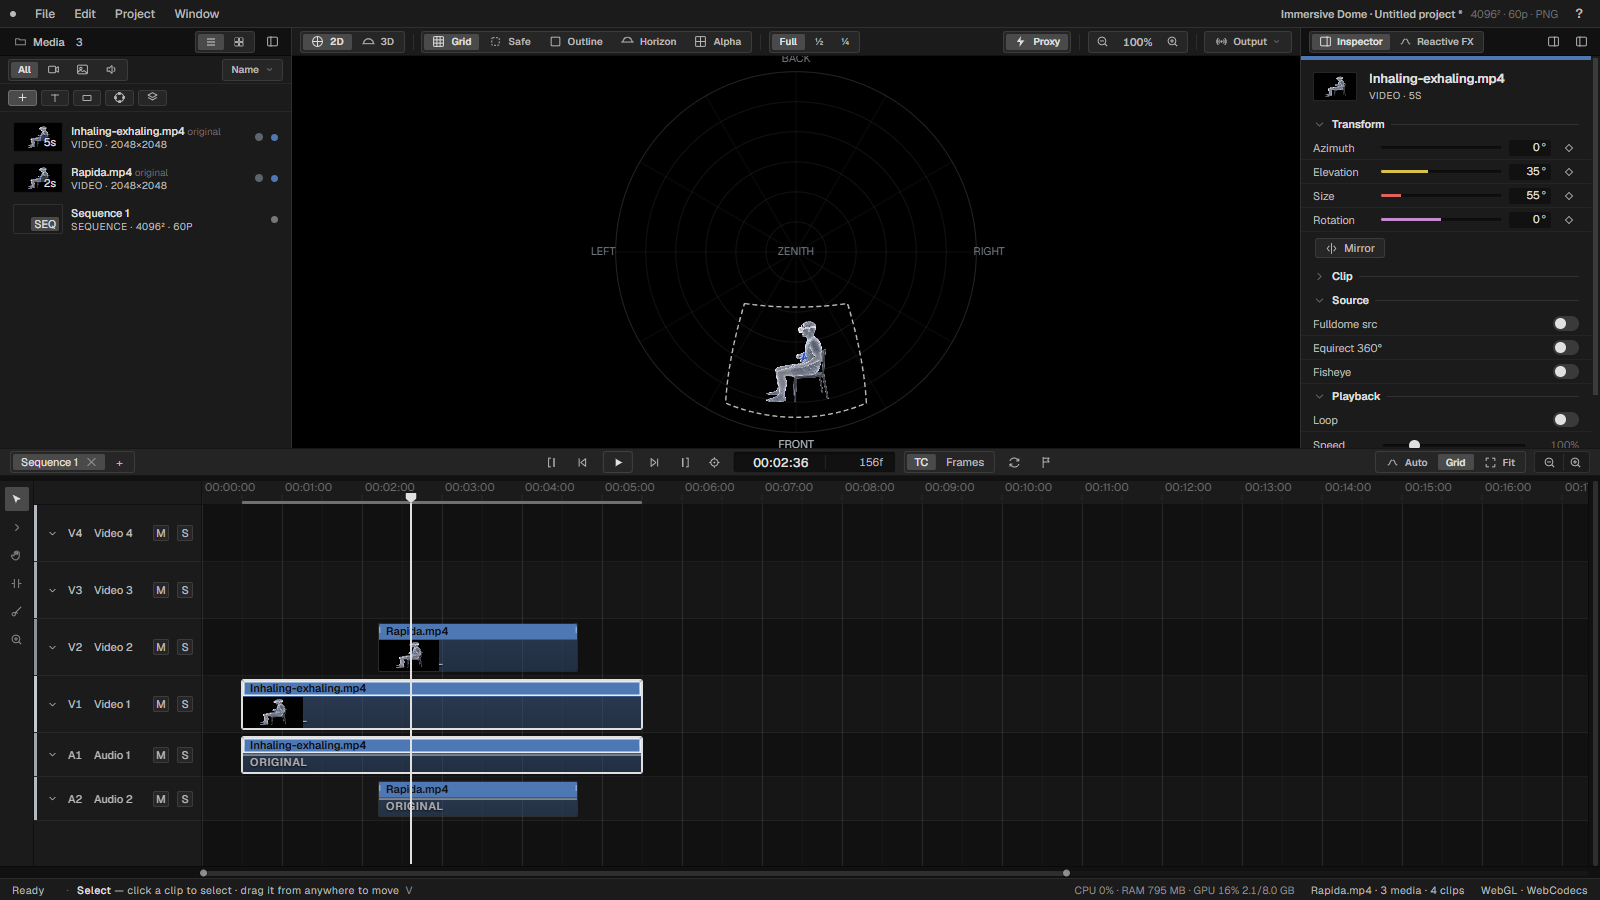
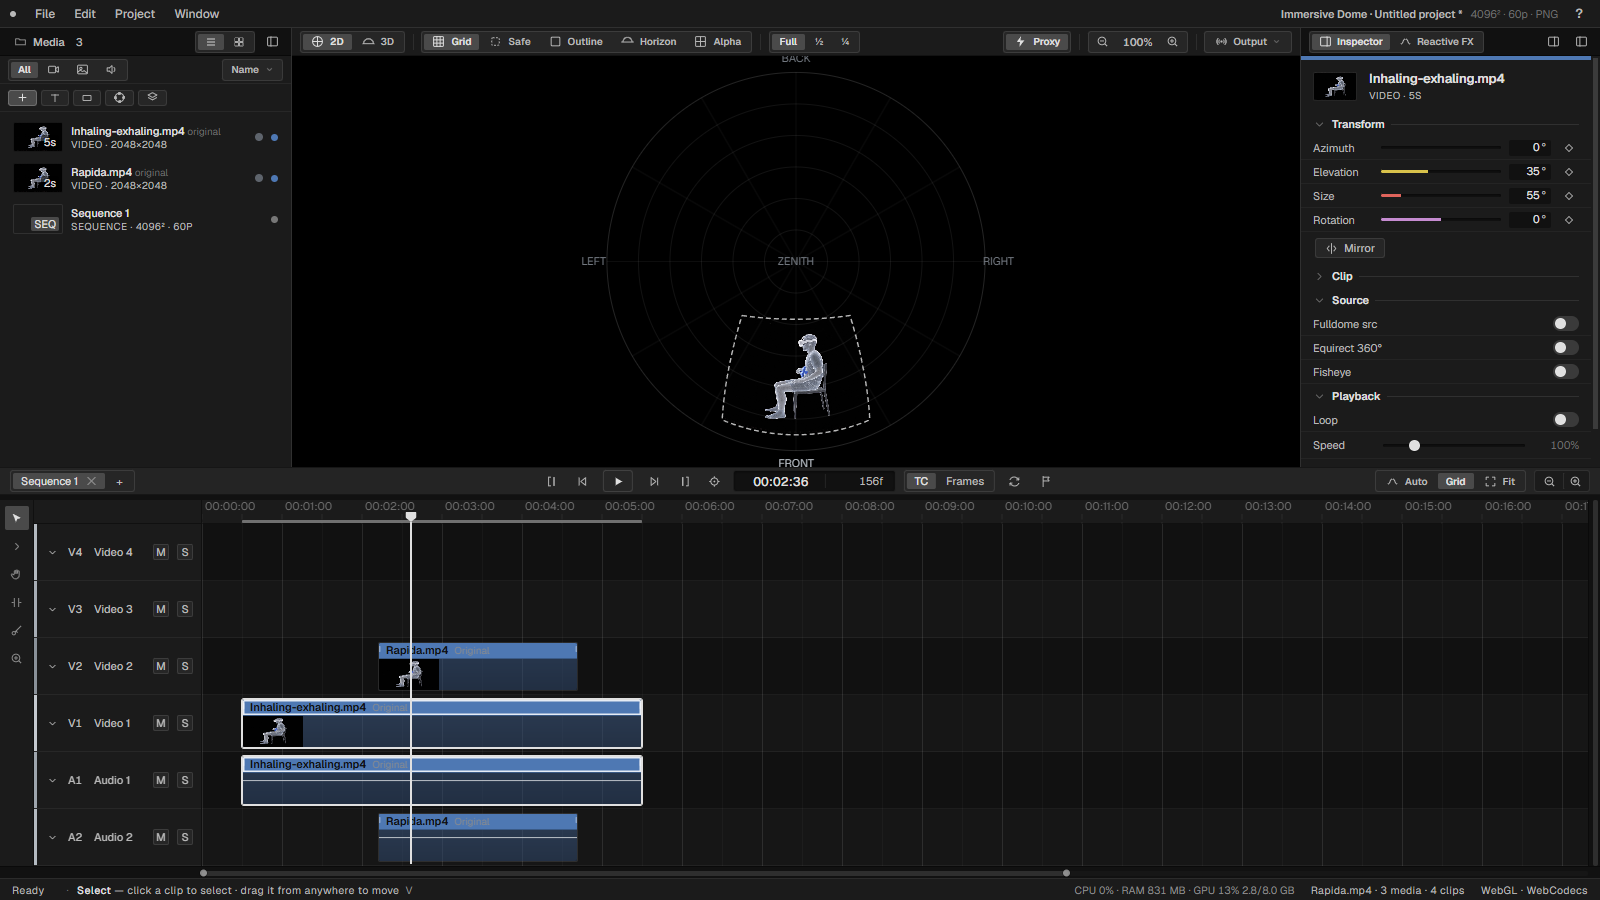
R171 · Tres ajustes del timeline
1 · EL PANEL MIDE LO QUE MIDEN LAS PISTAS. tlMaxH() sólo limitaba el ARRASTRE del divisor; la altura de
partida seguía cableada en el CSS (402px) y no se recalculaba al colapsar, quitar o escalar pistas, así
que sobraba banda vacía bajo la última. clampTimelineH() la ajusta en cada re-render. Y no sólo hacia
abajo: la primera versión únicamente recortaba, y al enlazar audio —que puede crear una pista A2— la
pista nueva quedaba fuera de vista, que es peor que la banda vacía. Si el usuario arrastra el divisor,
su altura manda y sólo se recorta al tope.

2 · LAS PISTAS DE AUDIO MIDEN LO MISMO QUE LAS DE VÍDEO. Eran 44 contra 57; con clips enlazados A/V la
mitad de audio quedaba visiblemente más baja que su pareja. AUDIO_LANE_H pasa a LANE_DEF_H, y sigue
siendo sólo el valor por defecto.

3 · LA FUENTE VA JUNTO AL NOMBRE, EN GRIS. 'ORIGINAL'/'PROXY' era una chapa en mayúsculas con sombra
flotando sobre el clip, que competía con el nombre y tapaba la miniatura. Ahora es 'Original'/'Proxy'
dentro del título, 10px, peso normal, --ink-3. La barrita de progreso se queda donde estaba.
Medido: dentro del título, rgb(140,140,140), peso 400, sin mayúsculas.

Pruebas: funcional 22/22, robustez 15/15, enlace A/V 6/6, cero errores de consola.

diff --git a/app.js b/app.js
@@ -131,7 +131,9 @@ const LANE_DEF_H=57, LANE_MIN_H=26, LANE_MAX_H=120, LANE_COLLAPSED_H=24;
    para dibujarlos (`LH>=AUTO_LANE_MIN_H`); antes eran dos números sueltos que podían desincronizarse.
    Encoger por debajo de este suelo NO deja la pista a medias: la colapsa entera. */
 const AUTO_LANE_MIN_H=52;
-const AUDIO_LANE_H=44; // altura POR DEFECTO del audio (no fija): se redimensiona igual que el vídeo
+const AUDIO_LANE_H=LANE_DEF_H; /* [R171] el audio mide lo MISMO que el vídeo. Era 44 contra 57 y se notaba a
+   simple vista; con clips enlazados A/V, además, la mitad de audio quedaba visiblemente más baja que su
+   pareja. Sigue siendo sólo el valor POR DEFECTO: Alt+rueda las escala todas juntas. */
 /* [R152] Alto de la regla del timeline. Estaba cableado como 22 en el CSS y en TRES sitios de JS (playhead,
    límite de arrastre, brace de work-area); el diseño la pone en 24 y desincronizarlos desalinea todo. Una fuente. */
 const RULER_H=24;
@@ -1765,7 +1767,7 @@ async function makeProxy(m){
 function updProxyUI(m){const it=document.querySelector('.mitem[data-id="'+m.id+'"]');if(it){const b=it.querySelector('.pbar>i');if(b)b.style.width=Math.max(0,m.proxyPct||0)+'%'; const tx=it.querySelector('.pbar .pbtxt');if(tx)tx.textContent=m.proxyReady?'':(m.proxyPct>0?(m.proxyPct+'%'):'…');}
   document.querySelectorAll('.pdot[data-mid="'+m.id+'"]').forEach(el=>{ el.style.background=m.proxyReady?'#B4BAC1':'#5E646C'; el.title=m.proxyReady?T('Proxy ready','Proxy listo'):T('No proxy yet / generating','Sin proxy aún / generando'); });
   const rdy=!!m.proxyReady,pct=m.proxyPct||0;
-  document.querySelectorAll('.cpx[data-mid="'+m.id+'"]').forEach(el=>{el.textContent=rdy?'⚡ PROXY':(pct>0?'PROXY '+pct+'%':'ORIGINAL');});
+  document.querySelectorAll('.cpx[data-mid="'+m.id+'"]').forEach(el=>{el.textContent=rdy?T('Proxy','Proxy'):(pct>0?T('Proxy','Proxy')+' '+pct+'%':T('Original','Original'));}); // [R171] mismo texto que al construir el clip
   document.querySelectorAll('.cpxbar[data-mid="'+m.id+'"]').forEach(el=>{el.style.display=(rdy||pct<=0)?'none':'block';const i=el.querySelector('i');if(i)i.style.width=pct+'%';}); }
 
 /* ===================== MEDIA LIST UI ===================== */
@@ -2202,12 +2204,17 @@ function renderTimeline(){ reconcileVinst(); // free private decoders of clips t
         fades+=`<svg class="fadeenv" width="${cW}" height="${cH}" viewBox="0 0 ${cW} ${cH}" preserveAspectRatio="none"><polyline points="0,${c.fadeIn>0?botY:topY} ${x1.toFixed(1)},${topY} ${x2.toFixed(1)},${topY} ${cW},${c.fadeOut>0?botY:topY}"/></svg>`; }
       const isAud=!!(m&&m.kind==='audio')||isAudioClip(c); /* [R170] la mitad de audio de un vídeo enlazado vive en una pista de audio con medio de VÍDEO: sin mirar la pista no recibía .audioclip y se quedaba sin onda */ const fillBg=c.adjust?'repeating-linear-gradient(45deg,rgba(180,186,193,0.30) 0 9px,rgba(180,186,193,0.10) 9px 18px)':'none'; // [R94b] the stretched-thumbnail fill is gone — Premiere-style HEAD THUMBNAIL instead (below)
       let cth=''; if(m&&m.thumb&&!isAud&&!collapsed){ const th=Math.max(8,LH-8-15), tw=Math.round(th*16/9); if(Math.max(14,c.dur*pps)>=tw+24) cth=`<div class="cthumb" style="width:${tw}px;background-image:url(${m.thumb})"></div>`; } // Premiere-style head thumbnail, pinned to the clip's own left edge; hidden in automation mode
-      let px2=''; if(m&&m.kind==='video'){ const rdy=!!m.proxyReady,pct=m.proxyPct||0; px2='<div class="cpx" data-mid="'+c.mediaId+'">'+(rdy?'⚡ PROXY':(pct>0?'PROXY '+pct+'%':'ORIGINAL'))+'</div><div class="cpxbar" data-mid="'+c.mediaId+'" style="'+((rdy||pct<=0)?'display:none;':'')+'"><i style="width:'+pct+'%"></i></div>'; }
+      /* [R171] La fuente (Original / Proxy) ya no es una chapa en mayúsculas flotando sobre el clip: va en gris
+         JUNTO AL NOMBRE, dentro del título. Sólo queda aquí la barrita de progreso mientras se genera el proxy. */
+      let px2='', pxTag=''; if(m&&m.kind==='video'){ const rdy=!!m.proxyReady, pct=m.proxyPct||0;
+        const txt=rdy?T('Proxy','Proxy'):(pct>0?T('Proxy','Proxy')+' '+pct+'%':T('Original','Original'));
+        pxTag='<span class="cpx" data-mid="'+c.mediaId+'">'+txt+'</span>';
+        px2='<div class="cpxbar" data-mid="'+c.mediaId+'" style="'+((rdy||pct<=0)?'display:none;':'')+'"><i style="width:'+pct+'%"></i></div>'; }
       const animBadge=hasLiveAnim(c)?`<div class="animbadge" title="${T('Live motion','Movimiento activo')}" style="position:absolute;top:3px;right:5px;width:15px;height:15px;border-radius:50%;background:var(--ink-2);color:#0b0d10;font-size:11px;line-height:15px;text-align:center;pointer-events:none;font-weight:700;z-index:3;">↻</div>`:'';
       const mutedBadge=(lane.mute&&!c.disabled)?`<div class="mutebadge" title="${T('Track muted','Pista silenciada')}">${ICO('mute',11)}</div>`:''; // [T5] chapa de mute (signo de forma, no de color → daltonismo)
       let loopMarks=''; const lcyc=loopCycleSec(c); // R81: subtle boundary ticks + a ↻ badge at each loop repeat
       if(lcyc>0.02){ for(let k=1;k*lcyc<c.dur-1e-3;k++){ const lx=k*lcyc*pps; loopMarks+=`<div style="position:absolute;left:${lx}px;top:0;bottom:0;width:1px;background:repeating-linear-gradient(180deg,rgba(255,255,255,0.55) 0 3px,transparent 3px 6px);pointer-events:none;z-index:2;"></div><div style="position:absolute;left:${lx+2}px;bottom:2px;font-size:11px;line-height:1;color:rgba(255,255,255,0.55);pointer-events:none;z-index:2;">↻</div>`; } }
-      const _ct=clipTint(c,m); cd.innerHTML=`<div class="fill" style="background-image:${fillBg};background-color:${_ct}"></div><div class="scrim"></div>${cth}${fades}${loopMarks}<div class="tt" style="background:${_ct};color:${textOn(_ct)}">${c.loop?'↻ ':''}${c.name}</div>${px2}${animBadge}${mutedBadge}<div class="hd l"></div><div class="hd r"></div><div class="fadeh fadeL" style="left:${fiPx}px"></div><div class="fadeh fadeR" style="right:${foPx}px"></div>${kf}`; // R84c: clips use their OWN colour (lane colour tints only the header)
+      const _ct=clipTint(c,m); cd.innerHTML=`<div class="fill" style="background-image:${fillBg};background-color:${_ct}"></div><div class="scrim"></div>${cth}${fades}${loopMarks}<div class="tt" style="background:${_ct};color:${textOn(_ct)}">${c.loop?'↻ ':''}${c.name}${pxTag}</div>${px2}${animBadge}${mutedBadge}<div class="hd l"></div><div class="hd r"></div><div class="fadeh fadeL" style="left:${fiPx}px"></div><div class="fadeh fadeR" style="right:${foPx}px"></div>${kf}`; // R84c: clips use their OWN colour (lane colour tints only the header)
       cd.tabIndex=0; cd.setAttribute('aria-label',c.name||T('Clip','Clip')); // [R94-UT5·U-10b] Tab reaches every clip; Enter/Space selects (keydown delegated on #tracks)
       row.appendChild(cd);
       // drag-and-drop a Motion chip onto a clip to animate it
@@ -2271,7 +2278,7 @@ function renderTimeline(){ reconcileVinst(); // free private decoders of clips t
   positionPlayhead(); const dt=$('#durTc'); if(dt)dt.textContent=TC(duration());
   renderWork(); renderClipExtent(); renderTimeSel(); applyToolCursor(); updEnable(); redrawAudioWaves(); // draw the visible slice of every audio waveform at screen resolution
   renderZoomBar(); // [T3] keep the custom zoom-scrollbar thumb sized to the current zoom/content
-  try{ renderVZoom(); }catch(e){} // [Rev1] V-zoom lateral (altura de pistas) — definido más abajo (hoisted); try por si falta el DOM
+  try{ renderVZoom(); }catch(e){} try{ clampTimelineH(); }catch(e){} // [R171] sin banda vacía bajo la última pista // [Rev1] V-zoom lateral (altura de pistas) — definido más abajo (hoisted); try por si falta el DOM
 }
 /* lanes */
 /* [R93] selecting a CLIP deselects the track (mutual exclusion — Ctrl+T/Ctrl+D are contextual). Cheap: also strips the
@@ -6719,7 +6726,19 @@ function hResize(handle,target,minH,maxH,after){ const hEl=$(handle); if(!hEl)re
    cambia al añadir/quitar/colapsar pistas o al escalarlas con Alt+rueda. Se deja un mínimo por si no hay ninguna. */
 function tlMaxH(){ const tracks=state.lanes.reduce((s,l,i)=>s+laneH(i),0);
   return Math.max(170, Math.min(Math.round(innerHeight*0.78), RULER_H+tracks+15+2)); } // 15 = barra de zoom horizontal
-hResize('#tlResize','.timeline',170,tlMaxH,()=>{resize();renderTimeline();});
+hResize('#tlResize','.timeline',170,tlMaxH,()=>{_tlAltoManual=true;resize();renderTimeline();}); // [R171] arrastrar el divisor marca la altura como manual (ver clampTimelineH)
+/* [R171] `tlMaxH` sólo limitaba el ARRASTRE. La altura de partida está cableada en el CSS (402px) y no se
+   recalcula al colapsar, quitar o escalar pistas, así que sobraba banda vacía debajo de la última. Esto la
+   recorta al alto real de las pistas. Sólo hacia ABAJO: si el usuario la ha dejado más pequeña, se respeta. */
+let _tlAltoManual=false; // el usuario arrastró el divisor → su altura manda y sólo se recorta, nunca se estira
+function clampTimelineH(){ const el=document.querySelector('.timeline'); if(!el)return;
+  const max=tlMaxH(), cur=el.getBoundingClientRect().height;
+  /* Mientras nadie haya arrastrado el divisor, el panel MIDE lo que miden las pistas: se recorta cuando sobran y
+     CRECE cuando aparece una nueva. Sólo recortar escondía pistas — al enlazar audio se crea A2 y quedaba fuera
+     de vista, que es peor que la banda vacía que se quería quitar. Si el usuario lo ha ajustado a mano se
+     respeta su altura, y entonces sí sólo se recorta al tope. */
+  const objetivo=_tlAltoManual?Math.min(cur,max):max;
+  if(Math.abs(cur-objetivo)>0.5){ el.style.height=objetivo+'px'; try{ resize(); }catch(e){} } }
 function saveWorkspace(){ try{ const prev=JSON.parse(localStorage.getItem('domeProWs')||'{}'); const mc=state.prefs.mediaCollapsed, ic=state.prefs.inspCollapsed;
   localStorage.setItem('domeProWs', JSON.stringify({ mediaW: mc?(prev.mediaW||292):$('#mediaPane').offsetWidth, inspW: ic?(prev.inspW||300):$('#inspPane').offsetWidth, mediaCollapsed:mc, inspCollapsed:ic, tallInsp:!!state.prefs.tallInsp })); }catch(e){} }
 function loadWorkspace(){ try{ const s=localStorage.getItem('domeProWs'); if(!s)return; const w=JSON.parse(s);

diff --git a/index.html b/index.html
@@ -558,7 +558,9 @@
   body.simpleclips .clip .tt{box-shadow:none;}
   body.automode .clip .tt:active{cursor:grabbing;}
   body.automode .clip.sel .tt{box-shadow:inset 0 0 0 1.5px rgba(255,255,255,0.7),inset 0 -1px 0 rgba(255,255,255,0.28);}
-  .clip .cpx{position:absolute;left:7px;bottom:3px;font-size:11px;font-weight:600;letter-spacing:0.06em;color:var(--ink-2);text-shadow:0 1px 2px #000;white-space:nowrap;pointer-events:none;opacity:.92;}
+  /* [R171] La fuente va JUNTO AL NOMBRE dentro del título, en gris y con peso normal: antes era una chapa en
+     mayúsculas flotando sobre el clip, que competía con el nombre y tapaba la miniatura. */
+  .clip .tt .cpx{margin-left:6px;font-weight:400;font-size:10px;color:var(--ink-3);opacity:.85;}
   .clip .cpxbar{position:absolute;left:0;right:0;bottom:0;height:3px;background:rgba(0,0,0,0.45);pointer-events:none;}
   .clip .cpxbar>i{display:block;height:100%;background:var(--ink-2);}
   /* [R102·D-T2] ESTA es la señal de selección que siempre se ve: el borde del clip entero. (El contorno del

diff --git a/COMPONENTS.md b/COMPONENTS.md
@@ -228,6 +228,12 @@
 - **Invariants / gotchas:** **el enlace se apoya en la SELECCIÓN** (en el `pointerdown` del clip: `state.selIds=linkedIds(...)`), y de ahí el arrastre multi-clip, el recorte y el borrado en grupo lo mueven todo sin parchear nada más. `collectAudioEvents` decide por la PISTA (`lane.kind===audio`), NO por `avRole`: al desenlazar se borra el rol y con `avRole` la mitad de audio se quedaba muda. La mitad `avRole===v` se silencia en previsualización (`vinstAudio`) o sonaría dos veces. Copiar/duplicar/pegar produce clips SUELTOS: dos pares con el mismo `link` romperían `linkPartner`. Si el corte no puede partir la pareja, la mitad derecha queda suelta por el mismo motivo.
 - **Status:** ✅
 
+### Alto del panel del timeline — `tlMaxH` / `clampTimelineH` (app.js ~L6720)
+- **Purpose:** el panel mide lo que miden sus pistas: ni banda vacía debajo de la última, ni pistas escondidas.
+- **[R171]** `tlMaxH()` sólo limitaba el ARRASTRE; la altura de partida está cableada en el CSS (`.timeline{height:402px}`) y no se recalculaba. `clampTimelineH()` —llamada al final de `renderTimeline`— ajusta el panel a `tlMaxH()` en AMBOS sentidos mientras nadie haya tocado el divisor; si el usuario lo arrastró (`_tlAltoManual`), se respeta su altura y sólo se recorta al tope.
+- **Invariants / gotchas:** sólo recortar NO vale: al enlazar audio se puede crear una pista nueva (A2) y quedaría fuera de vista, que es peor que la banda vacía que se quería quitar.
+- **Status:** ✅
+
 ## Deuda técnica & gaps detectados en el mapeo
 
 - **🗄 Automatización legacy — ARCHIVADO (R137).** Las funciones muertas (`_autoOff` override/re-enable + perform-and-bake `recWrite`/`bakeRecorded` + `#autoRecBtn`) se sacaron del software y viven en `_backup/deprecated/20260722-automation-override-and-perform-bake.js` (recuperables). Verificado por CDP: motor de automatización intacto. **Barrido menor HECHO (R137):** removidos los reads no-op de `_autoOff` en sepAuto, returnToDefault, `drawAutoCurve` (var `off`), fxKfToggle y borrado de fx — solo queda `_autoOff` en un comentario (app.js L463). Curva renderiza OK (verificado por píxel).
@@ -552,7 +558,7 @@ separate subsystem — only cross-references appear here.
 - **Purpose:** The 168px-wide row header for each lane (colour bar, tag/name, collapse chevron, mute/solo, resize grip); hosts drag-to-reorder, rename, context menu, and (in automation mode) the device/param choosers.
 - **Location:** app.js · header build in `renderTimeline` (L1941–1969). Ops: `addLane()` (L2024), `removeLane()` (L2036), `duplicateLane()` (L2163), `renameLane()` (L2152), `startLaneDrag()` (L2173), `trackCreateItems()` (L2032), `defLanes()` (L4916).
 - **State owned:** `state.lanes[]` (each: `{id,name,tag,kind,color?,mute?,solo?,collapsed?,h?,_autoP?}`), `state.selLane`
-- **Key symbols:** classes `.lanehdr .sel .collapsed .aud`; buttons `[data-m=collapse|mute|solo]`, `.laneres [data-m=resize]`. `laneH(li)`. Constantes **del diseño (R152)**: `LANE_DEF_H=57, LANE_MIN_H=26, LANE_MAX_H=120, LANE_COLLAPSED_H=24`, `AUDIO_LANE_H=44` (default del audio, NO una altura fija), `RULER_H=24`, `TRACK_COLORS`. **[R163]** `AUTO_LANE_MIN_H=52` = suelo en modo automatización para pistas de vídeo (los desplegables de identidad necesitan margen); `laneFloorH(l)` es la fuente única y la usan `laneH`, `wheelResizeLanes` y el arrastre de la barra vertical. Por debajo del suelo la pista NO se queda a medias: `collapsed=true`. `lanesTopDown()` display order.
+- **Key symbols:** classes `.lanehdr .sel .collapsed .aud`; buttons `[data-m=collapse|mute|solo]`, `.laneres [data-m=resize]`. `laneH(li)`. Constantes **del diseño (R152)**: `LANE_DEF_H=57, LANE_MIN_H=26, LANE_MAX_H=120, LANE_COLLAPSED_H=24`, `AUDIO_LANE_H=LANE_DEF_H` (**[R171]** el audio mide lo MISMO que el vídeo; sigue siendo sólo el valor por defecto), `RULER_H=24`, `TRACK_COLORS`. **[R163]** `AUTO_LANE_MIN_H=52` = suelo en modo automatización para pistas de vídeo (los desplegables de identidad necesitan margen); `laneFloorH(l)` es la fuente única y la usan `laneH`, `wheelResizeLanes` y el arrastre de la barra vertical. Por debajo del suelo la pista NO se queda a medias: `collapsed=true`. `lanesTopDown()` display order.
 - **Invariants / gotchas:** Selecting a track deselects the clip (mutual exclusion, [R93]). **[R152] AUDIO Y VÍDEO SE COMPORTAN IGUAL** — misma lista ordenable (el prototipo trae `trackOrder:['v4','v3','v2','v1','a1']`), mismo grip de resize, mismo colapso. `lanesTopDown()` ya **no** particiona por tipo y `startLaneDrag` ya **no** clampea el drop al grupo: una pista de audio se puede soltar entre las de vídeo. Si hace falta volver a separarlas, hay que restaurar TAMBIÉN el módulo sticky (ver `_backup/deprecated/20260725-audio-section-model.js`) — sin él la partición sólo impide reordenar. `laneH` chequea `collapsed` ANTES que el tipo. Resize mutará `lane.h` y llama a `scheduleTimeline()` (no debe mover la vista — [L1]). `removeLane` mantiene ≥1 de vídeo y ≥1 de audio. Cabecera 168px.
 - **Status:** ✅
 - **Roadmap:** [L1] resize-view glitch, [U1] VIDEO/AUDIO same grey-bar style

diff --git a/PLAN.md b/PLAN.md
@@ -1,5 +1,27 @@
 # Dome Studio Pro — Implementation Plan & Improvement Backlog
 
+## ROUND 171 — Tres ajustes del timeline
+
+Sobre la captura que mandó Beltrán tras probar los clips enlazados.
+
+**1 · El panel mide lo que miden las pistas.** `tlMaxH()` (R156) sólo limitaba el ARRASTRE del divisor; la altura
+de partida seguía cableada en el CSS (402px) y no se recalculaba al colapsar, quitar o escalar pistas, así que
+sobraba banda vacía bajo la última. Ahora `clampTimelineH()` ajusta el panel en cada re-render. **Y no sólo hacia
+abajo:** la primera versión únicamente recortaba, y al enlazar audio —que puede crear una pista A2— la pista
+nueva quedaba fuera de vista. Esconder una pista es peor que la banda vacía que se quería quitar. Si el usuario
+arrastra el divisor, su altura manda y entonces sí sólo se recorta al tope.
+
+**2 · Las pistas de audio miden lo mismo que las de vídeo.** Eran 44 contra 57 y se notaba; con clips enlazados
+A/V la mitad de audio quedaba visiblemente más baja que su pareja. `AUDIO_LANE_H` pasa a ser `LANE_DEF_H`. Sigue
+siendo sólo el valor por defecto: Alt+rueda las escala todas juntas.
+
+**3 · La fuente va junto al nombre, en gris.** "ORIGINAL" / "PROXY" era una chapa en mayúsculas, con espaciado de
+letra y sombra, flotando sobre el clip: competía con el nombre y tapaba la miniatura. Ahora es "Original" /
+"Proxy" dentro del título, a 10px, peso normal y en `--ink-3`. La barrita de progreso del proxy se queda donde
+estaba. Medido: dentro del título, gris rgb(140,140,140), peso 400, sin mayúsculas.
+
+Pruebas: funcional 22/22, robustez 15/15, enlace A/V 6/6, cero errores de consola.
+
 ## ROUND 170 — Clips enlazados A/V, como Premiere
 
 Petición de Beltrán: arrastrar un vídeo y que su audio baje solo a la pista de audio más cercana, enlazado; que
